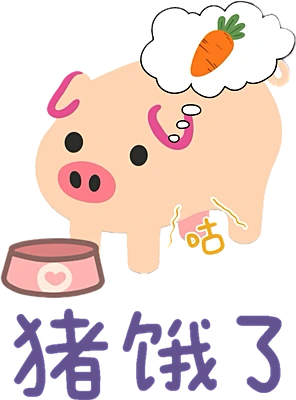
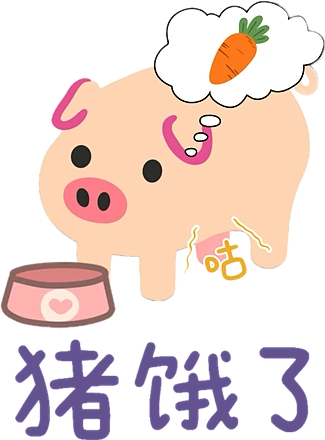
Upscale blurry pig stickers with Real-ESRGAN before cutout

diff --git a/index.html b/index.html
@@ -434,7 +434,7 @@
   <!-- Pixel Pig -->
   <div id="kirby-wrap">
     <div id="kirby-inner">
-      <img id="kirby-img" src="figures/pigs/king.webp?v=4" alt="猪王登基" title="猪王登基">
+      <img id="kirby-img" src="figures/pigs/king.webp?v=5" alt="猪王登基" title="猪王登基">
       <div id="kirby-shadow"></div>
     </div>
   </div>
@@ -484,13 +484,13 @@
         ['benzene', '苯猪'], ['hungry', '猪饿了'], ['elephant', '大象'],
       ];
       const img = document.getElementById('kirby-img');
-      PIGS.forEach(([f]) => { new Image().src = `figures/pigs/${f}.webp?v=4`; });
+      PIGS.forEach(([f]) => { new Image().src = `figures/pigs/${f}.webp?v=5`; });
       let i = 0, timer;
       function show(next) {
         i = (next + PIGS.length) % PIGS.length;
         img.classList.add('swap');
         setTimeout(() => {
-          img.src = `figures/pigs/${PIGS[i][0]}.webp?v=4`;
+          img.src = `figures/pigs/${PIGS[i][0]}.webp?v=5`;
           img.alt = img.title = PIGS[i][1];
           img.classList.remove('swap');
         }, 200);
